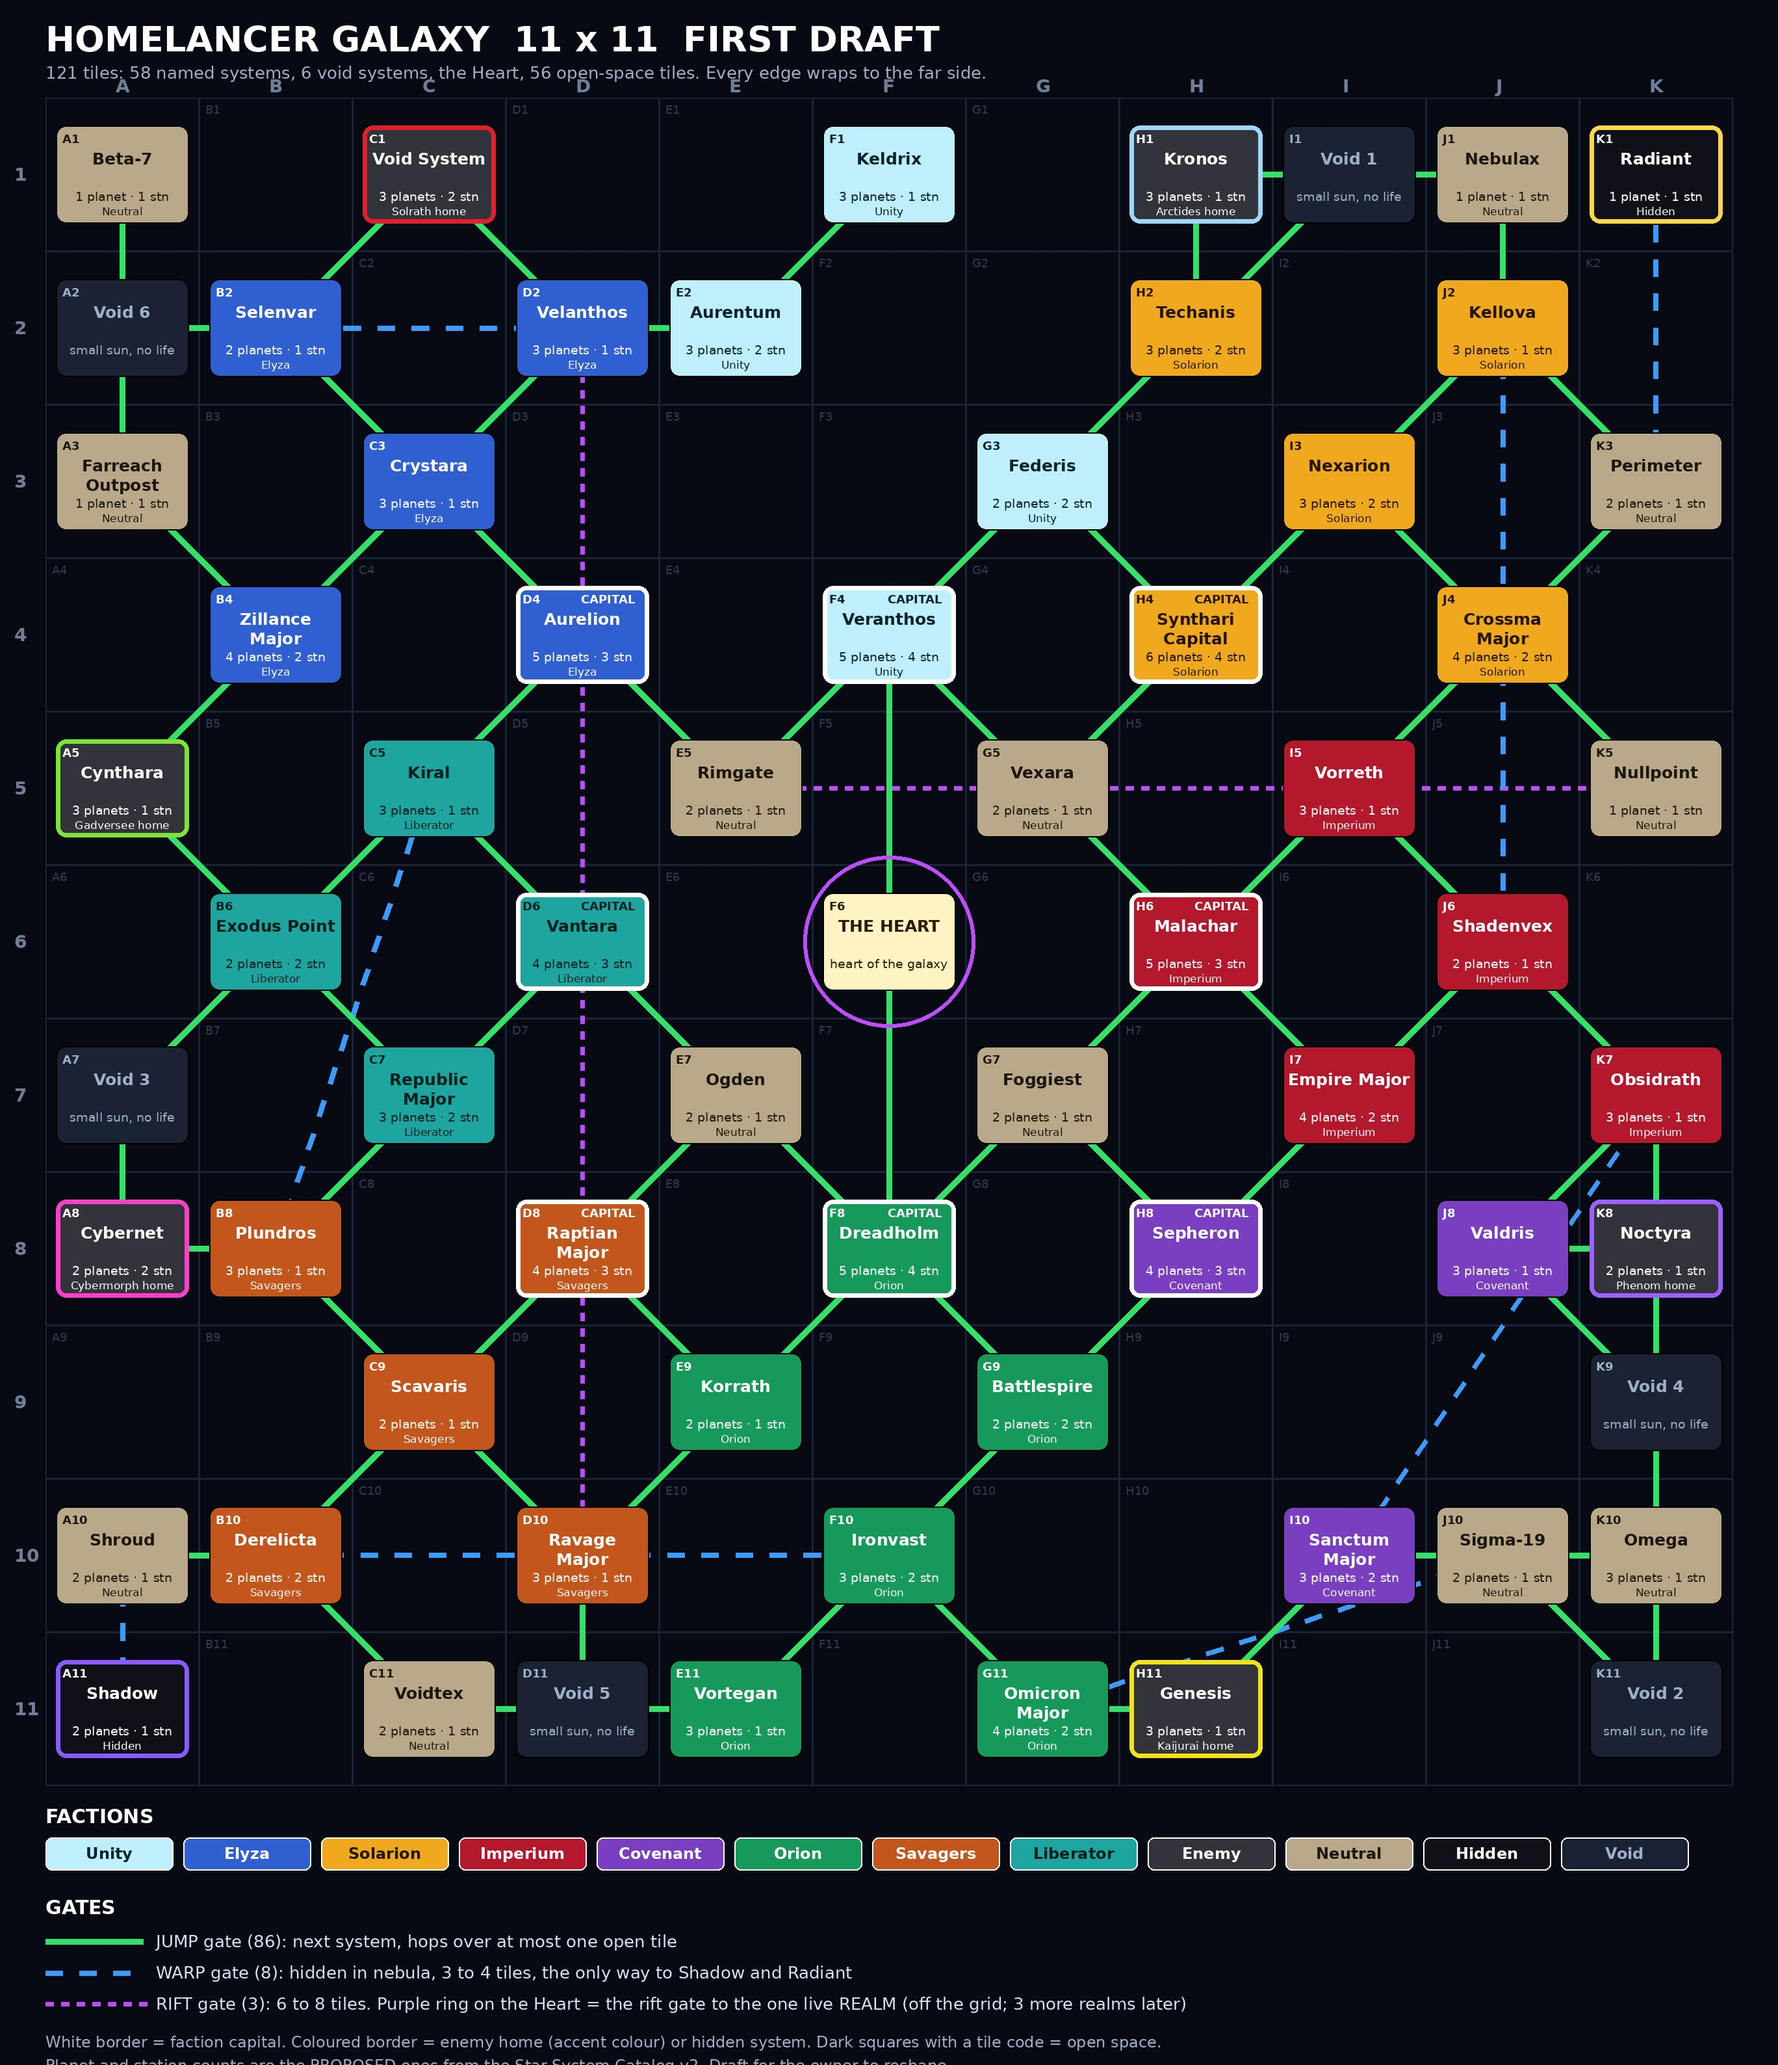
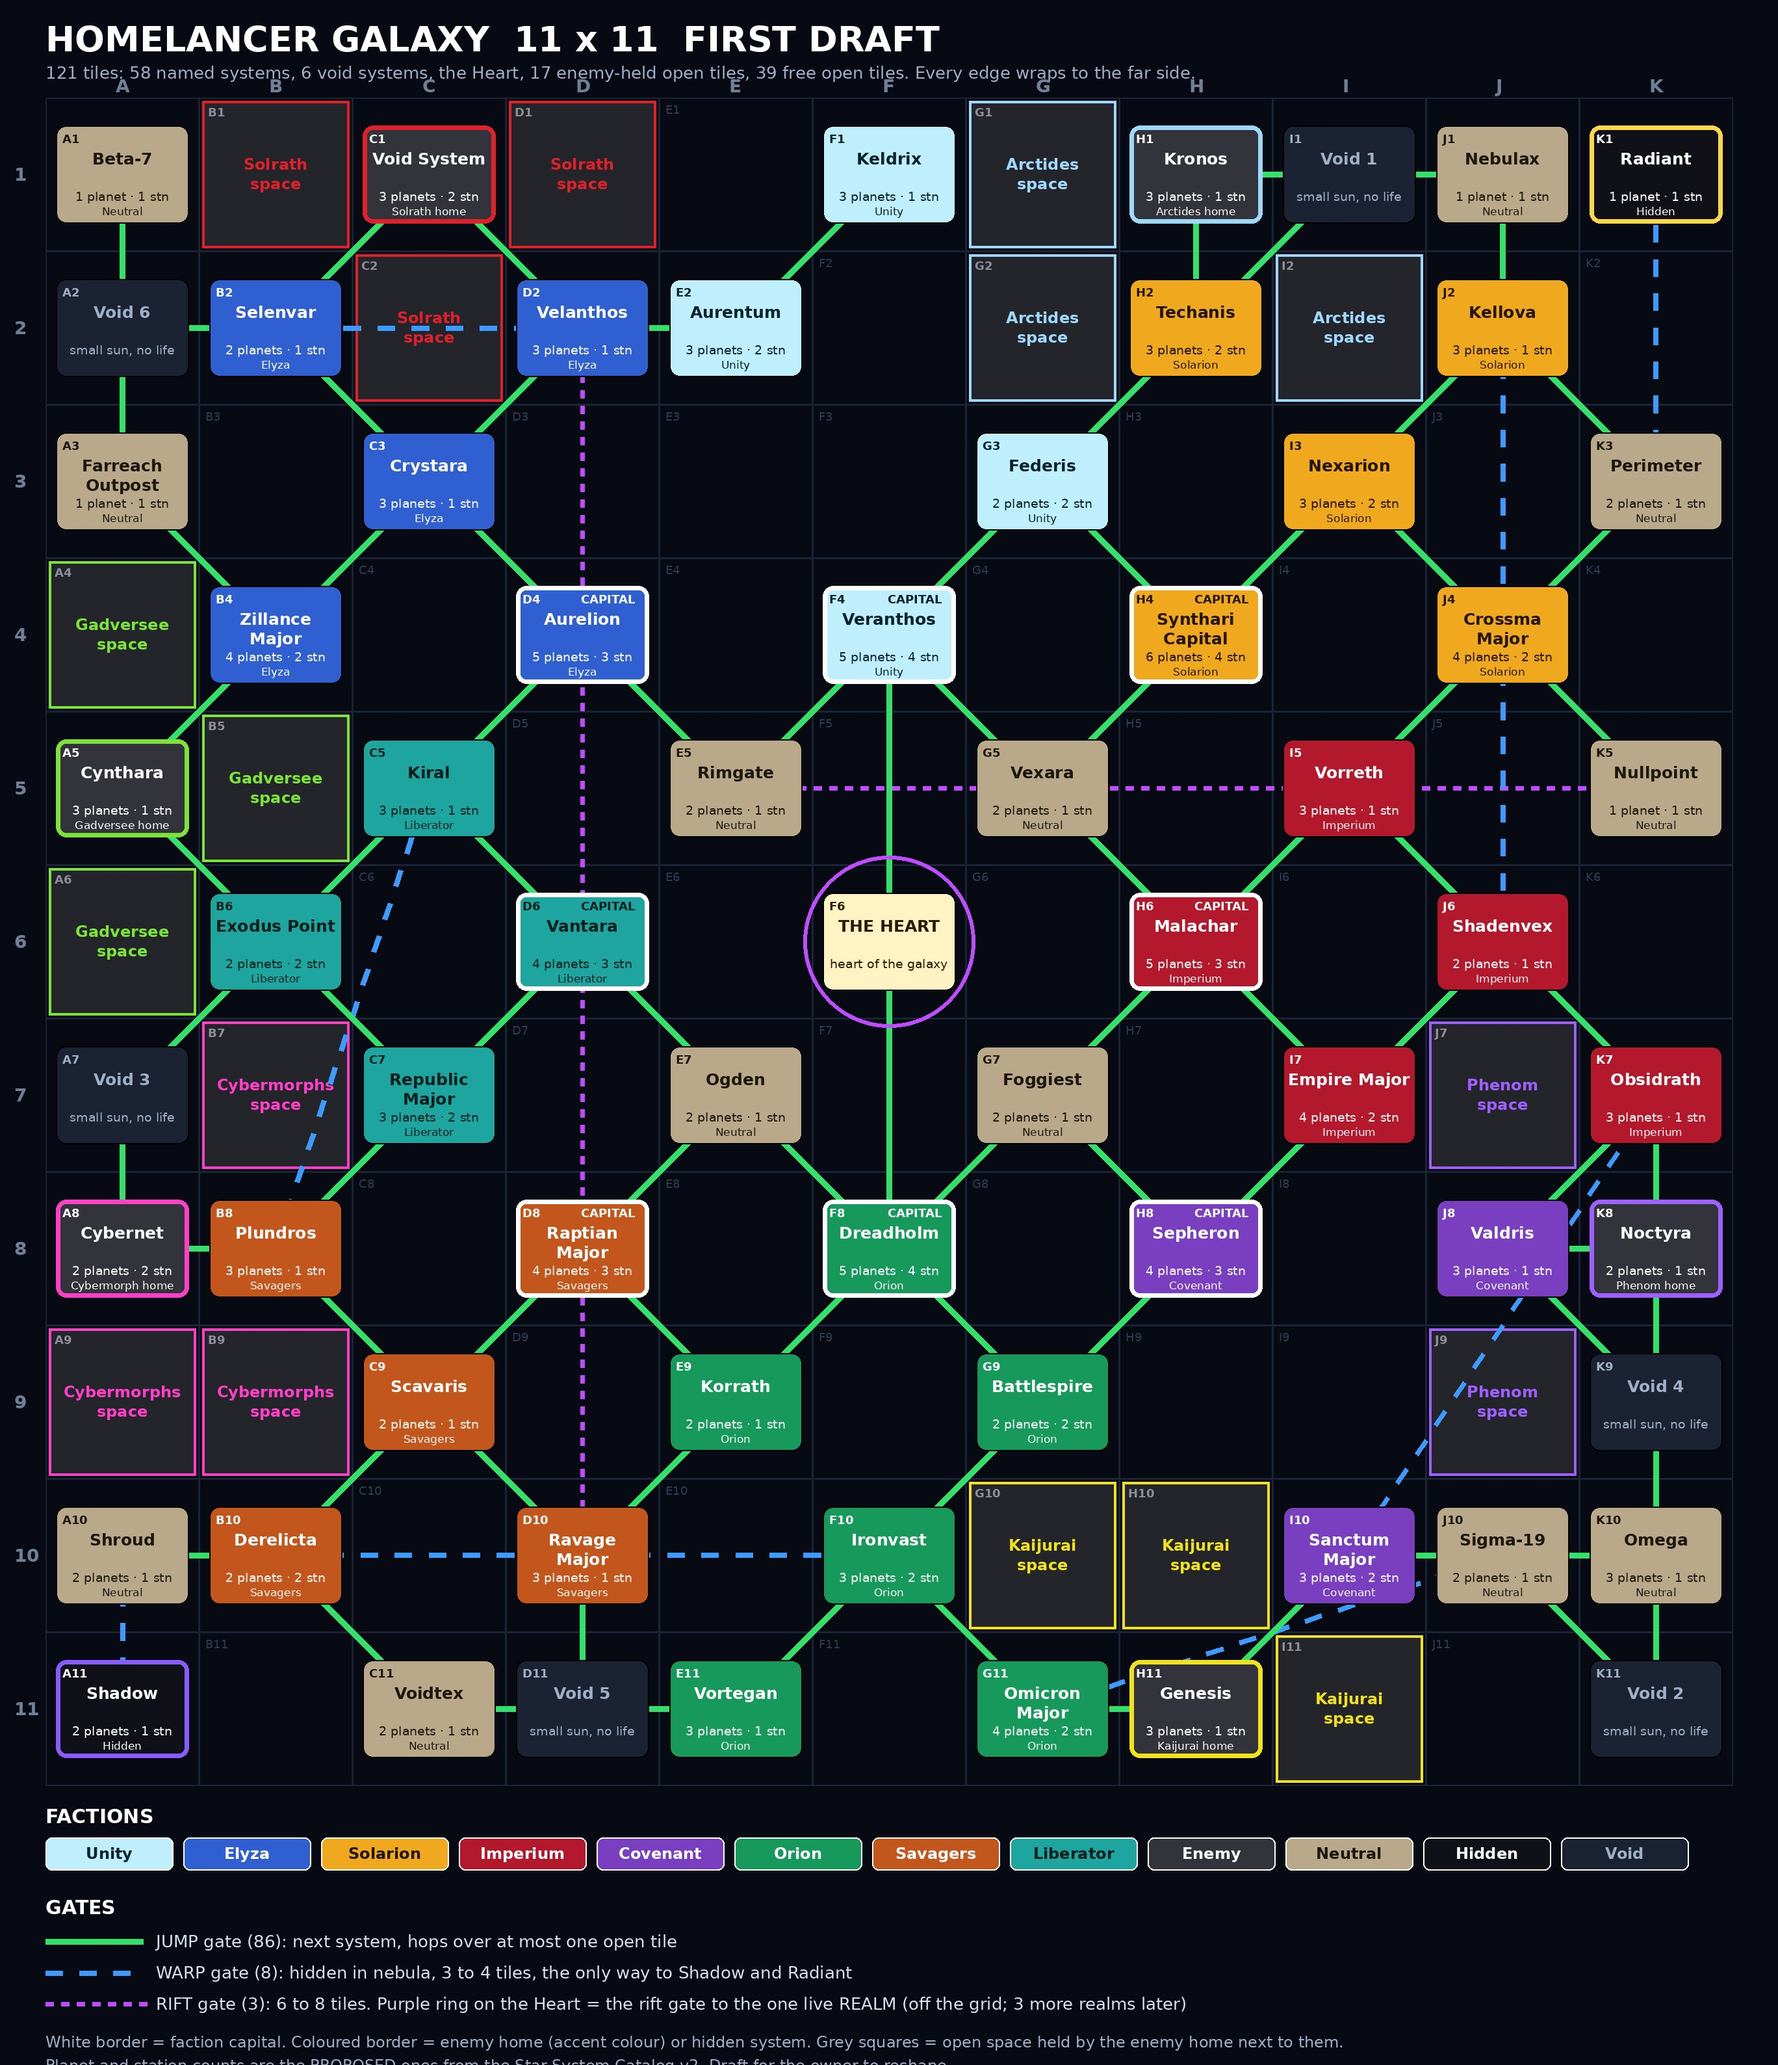
Galaxy draft: enemy homes hold the open tiles next to them
Claude-Session: https://claude.ai/code/session_01CQJyr5F1eic1HejyBsZoC9

diff --git a/docs/galaxy/galaxy_draft.py b/docs/galaxy/galaxy_draft.py
@@ -36,6 +36,7 @@ S = {
 }
 PRESS = {"Void System": ("Unity", "Elyza"), "Kronos": ("Solarion", "Unity"), "Cynthara": ("Elyza", "Liberator"),
          "Cybernet": ("Liberator", "Savagers"), "Noctyra": ("Imperium", "Covenant"), "Genesis": ("Orion", "Covenant")}
+ENEMY = {"Void System": "Solrath", "Kronos": "Arctides", "Cynthara": "Gadversee", "Cybernet": "Cybermorphs", "Noctyra": "Phenom", "Genesis": "Kaijurai"}
 WARP = [("Selenvar", "Aurentum"), ("Kellova", "Shadenvex"), ("Obsidrath", "Sanctum Major"), ("Ironvast", "Derelicta"),
         ("Plundros", "Kiral"), ("Omicron Major", "Sigma-19"), ("Perimeter", "Radiant"), ("Shroud", "Shadow")]
 RIFT = [("Rimgate", "Nullpoint"), ("Velanthos", "Ravage Major")]
@@ -44,6 +45,14 @@ def xy(t): return COLS.index(t[0]), int(t[1:]) - 1
 P = {n: xy(v[0]) for n, v in S.items()}
 assert len(set(P.values())) == len(P), "two systems on one tile"
 occ = {v: k for k, v in P.items()}
+
+HELD = {}
+for e in ENEMY:
+    ex, ey = P[e]
+    for dx in (-1, 0, 1):
+        for dy in (-1, 0, 1):
+            t = (ex + dx, ey + dy)
+            if t != (ex, ey) and 0 <= t[0] < 11 and 0 <= t[1] < 11 and t not in occ and t not in HELD: HELD[t] = e
 
 def jump_ok(a, b):
     fa, fb = S[a][1], S[b][1]
@@ -83,14 +92,20 @@ im = Image.new("RGB", (W, H), "#070a12"); dr = ImageDraw.Draw(im)
 def font(sz, bold=True): return ImageFont.truetype("/usr/share/fonts/truetype/dejavu/DejaVuSans%s.ttf" % ("-Bold" if bold else ""), sz)
 def c(n): x, y = P[n]; return M + x * T + T // 2, TOP + y * T + T // 2
 dr.text((M, 28), "HOMELANCER GALAXY  11 x 11  FIRST DRAFT", font=font(54), fill="#ffffff")
-dr.text((M, 96), "121 tiles: 58 named systems, 6 void systems, the Heart, 56 open-space tiles. Every edge wraps to the far side.", font=font(26, False), fill="#9fb0c8")
+dr.text((M, 96), "121 tiles: 58 named systems, 6 void systems, the Heart, %d enemy-held open tiles, %d free open tiles." % (len(HELD), 56 - len(HELD)) + " Every edge wraps to the far side.", font=font(26, False), fill="#9fb0c8")
 for i in range(11):
     dr.text((M + i * T + T // 2 - 10, TOP - 34), COLS[i], font=font(28), fill="#6f7f98")
     dr.text((22, TOP + i * T + T // 2 - 16), str(i + 1), font=font(28), fill="#6f7f98")
     for j in range(11):
         x0, y0 = M + i * T, TOP + j * T
         dr.rectangle([x0, y0, x0 + T, y0 + T], outline="#1b2436", width=2)
-        if (i, j) not in occ: dr.text((x0 + 10, y0 + 8), f"{COLS[i]}{j + 1}", font=font(18, False), fill="#2f3b52")
+        if (i, j) in HELD:
+            e = HELD[(i, j)]
+            dr.rectangle([x0 + 5, y0 + 5, x0 + T - 5, y0 + T - 5], fill="#24252b", outline=ACCENT[e], width=4)
+            dr.text((x0 + 14, y0 + 12), f"{COLS[i]}{j + 1}", font=font(18), fill="#8d909c")
+            for k, l in enumerate((ENEMY[e], "space")):
+                dr.text((x0 + T / 2 - dr.textlength(l, font=font(24)) / 2, y0 + T / 2 - 30 + k * 30), l, font=font(24), fill=ACCENT[e])
+        elif (i, j) not in occ: dr.text((x0 + 10, y0 + 8), f"{COLS[i]}{j + 1}", font=font(18, False), fill="#2f3b52")
 def line(a, b, col, wd, dash=None):
     (x1, y1), (x2, y2) = c(a), c(b)
     if not dash: dr.line([x1, y1, x2, y2], fill=col, width=wd); return
@@ -136,7 +151,7 @@ for k in range(0, 150, 52): dr.line([M + k, gy + 118, M + k + 26, gy + 118], fil
 dr.text((M + 170, gy + 102), f"WARP gate ({len(WARP)}): hidden in nebula, 3 to 4 tiles, the only way to Shadow and Radiant", font=font(26, False), fill="#d8e2f0")
 for k in range(0, 150, 24): dr.line([M + k, gy + 166, M + k + 12, gy + 166], fill="#c04cff", width=7)
 dr.text((M + 170, gy + 150), f"RIFT gate ({len(RIFT) + 1}): 6 to 8 tiles. Purple ring on the Heart = the rift gate to the one live REALM (off the grid; 3 more realms later)", font=font(26, False), fill="#d8e2f0")
-dr.text((M, gy + 210), "White border = faction capital. Coloured border = enemy home (accent colour) or hidden system. Dark squares with a tile code = open space.", font=font(24, False), fill="#9fb0c8")
+dr.text((M, gy + 210), "White border = faction capital. Coloured border = enemy home (accent colour) or hidden system. Grey squares = open space held by the enemy home next to them.", font=font(24, False), fill="#9fb0c8")
 dr.text((M, gy + 246), "Planet and station counts are the PROPOSED ones from the Star System Catalog v2. Draft for the owner to reshape.", font=font(24, False), fill="#9fb0c8")
 im.save("galaxy_11x11_draft.png"); im.convert("RGB").save("galaxy_11x11_draft.jpg", quality=88)
 with open("galaxy_11x11_tiles.csv", "w", newline="") as f:
@@ -148,4 +163,9 @@ with open("galaxy_11x11_gates.csv", "w", newline="") as f:
     w = csv.writer(f); w.writerow(["type", "from", "from tile", "to", "to tile"])
     for t, L in (("jump", JUMP), ("warp", WARP), ("rift", RIFT + [("THE HEART", "REALM")])):
         for a, b in L: w.writerow([t, a, S[a][0], b, S[b][0] if b in S else "off grid"])
+with open("galaxy_11x11_tiles.csv", "a", newline="") as f:
+    w = csv.writer(f)
+    for (i, j), e in sorted(HELD.items(), key=lambda kv: (kv[0][1], kv[0][0])): w.writerow([f"{COLS[i]}{j + 1}", "(open space)", "Enemy", f"held by {ENEMY[e]} ({e})", 0, 0, ""])
+import collections
+print("held", len(HELD), dict(collections.Counter(ENEMY[e] for e in HELD.values())))
 print(W, H)

diff --git a/docs/galaxy/README.md b/docs/galaxy/README.md
@@ -18,3 +18,6 @@ Draft choices made by Claude (owner to correct): faction wedges go round the Hea
 Solarion, Imperium, Covenant, Orion, Savagers, Liberator, Elyza); capitals sit two tiles from the Heart; the Heart links
 only to Veranthos and Dreadholm, so it is the one Unity-Orion crossing; the realm's rift gate sits on the Heart; Shadow
 and Radiant sit in opposite corners and are reached by warp gate only; the 6 void systems sit on the outer edge.
+
+- Enemy (grey) factions control the open tiles next to their home (owner, 3 Oct 2026): every open tile touching an
+  enemy home, corners included, is that enemy's space. 17 tiles in this draft.
